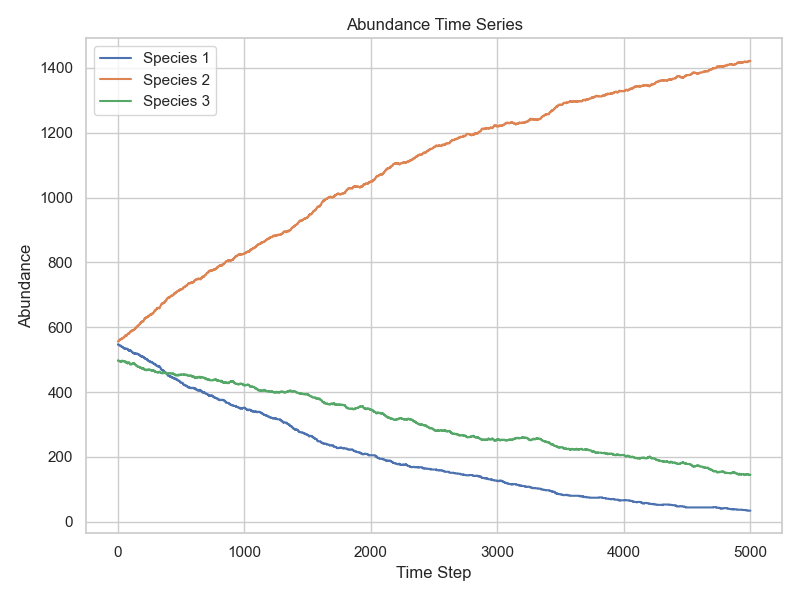
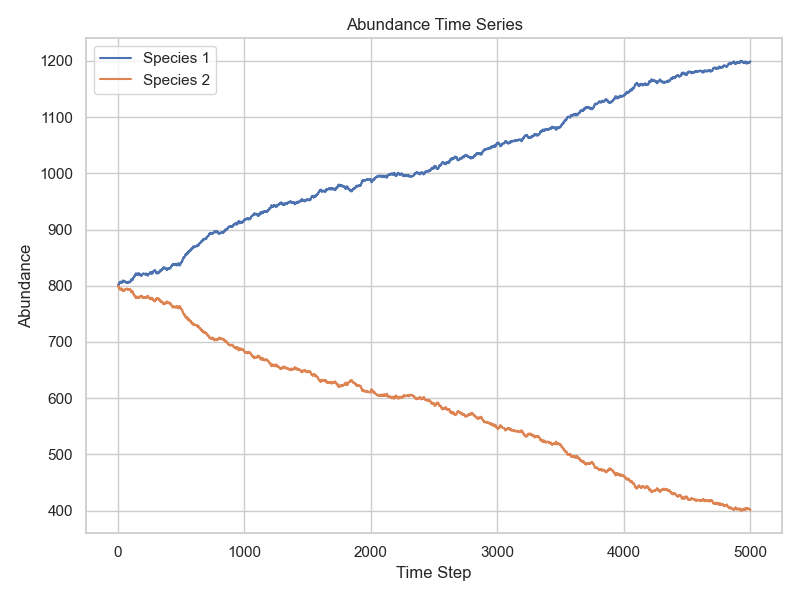
nuove simu

diff --git a/__initaux__.py b/__initaux__.py
@@ -32,9 +32,12 @@ m   = np.array([0.,0.])
 initial_guess = np.random.uniform(9, 10, size=(n,n,n_r))
 
 # initialize species grid: random
-N = np.random.randint(2, size=(n, n,n_s))
-N[N[:,:,0]==1,1]=0
-N[N[:,:,0]==0,1]=1
+#N = np.random.randint(2, size=(n, n,n_s))
+#N[N[:,:,0]==1,1]=0
+#N[N[:,:,0]==0,1]=1
+N = np.zeros((n,n,n_s))
+N[:,20:,0]=1
+N[:,:20,1]=1
 
 
 # define parameters
